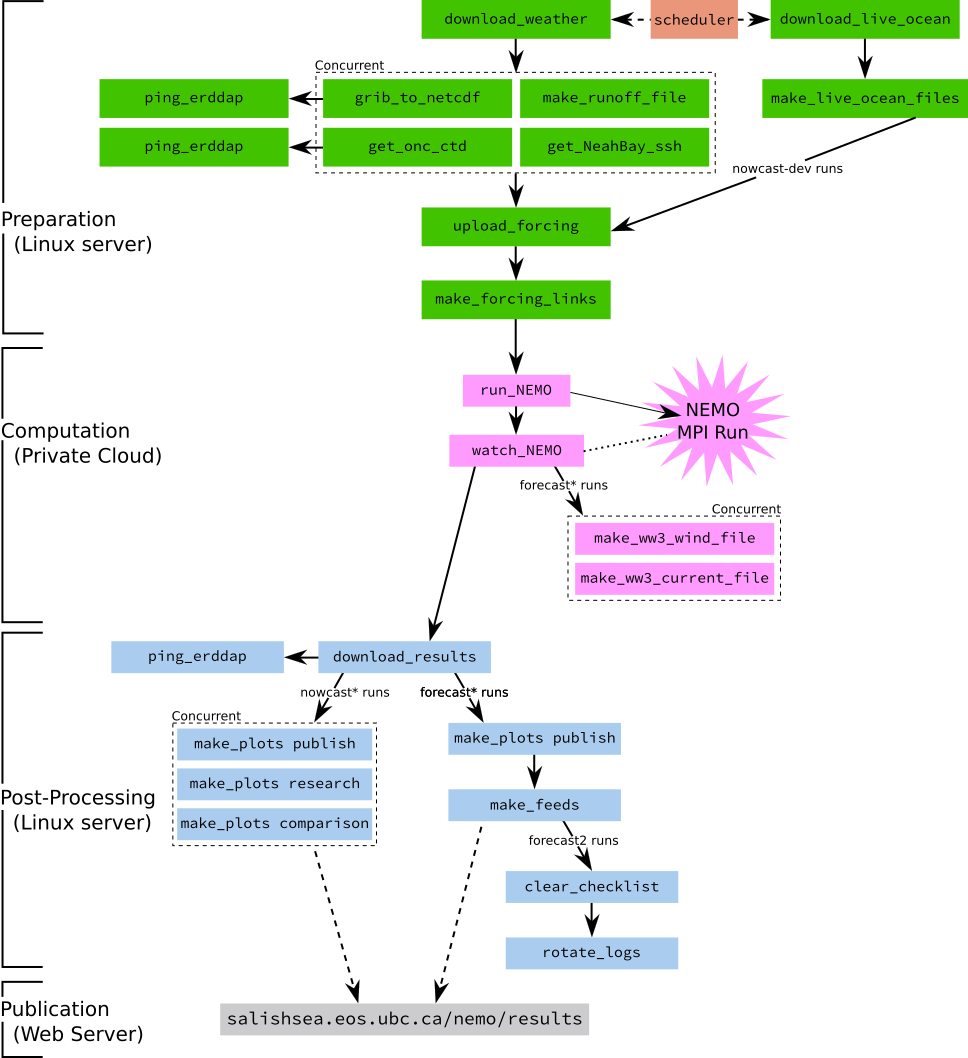
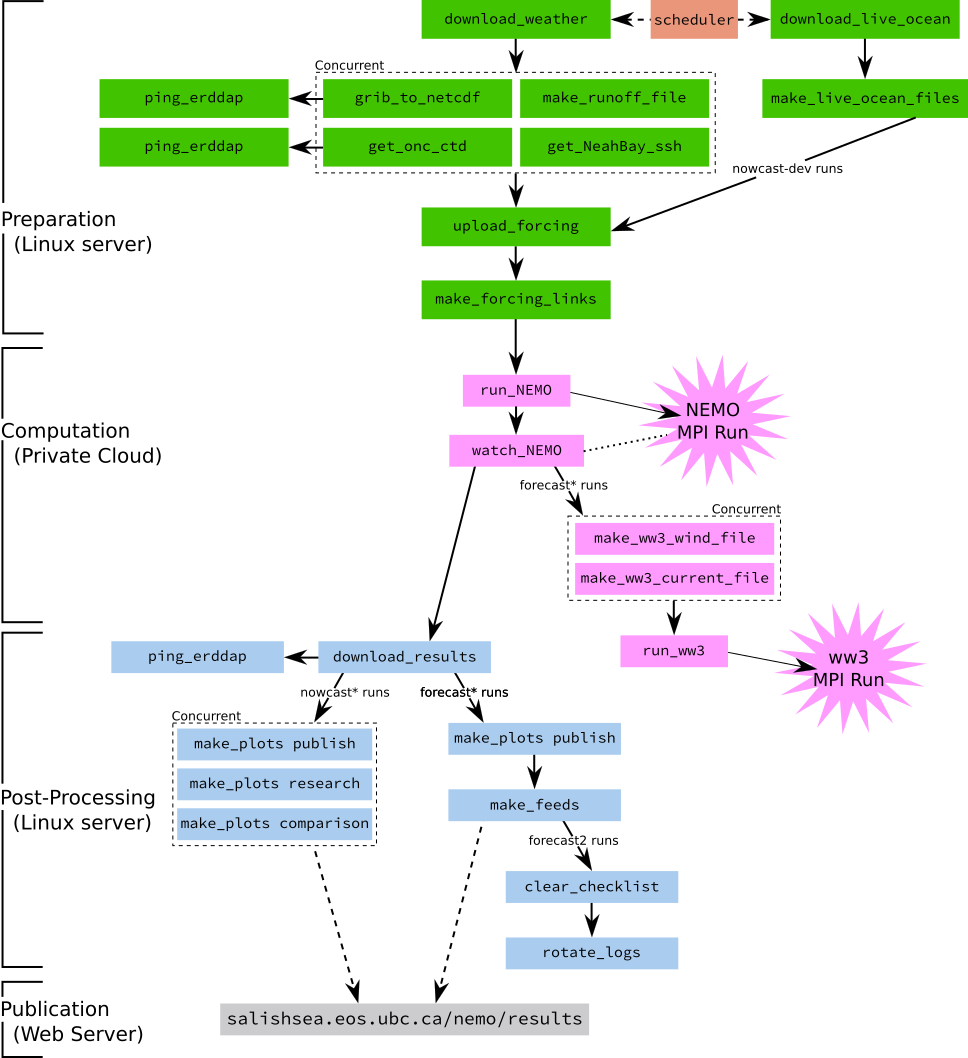
Integrate run_ww3 worker into automation.

Changed region(s): [[0.8058, 0.5614, 0.9607, 0.6862], [0.6198, 0.5614, 0.7748, 0.655]]

diff --git a/tests/test_next_workers.py b/tests/test_next_workers.py
@@ -621,7 +621,7 @@ class TestAfterMakeWW3WindFile:
         'failure forecast2',
         'failure forecast',
         'success forecast2',
-        'success forecast2',
+        'success forecast',
     ])
     def test_no_next_worker_msg_types(self, msg_type, config, checklist):
         workers = next_workers.after_make_ww3_wind_file(
@@ -637,13 +637,26 @@ class TestAfterMakeWW3currentFile:
         'crash',
         'failure forecast2',
         'failure forecast',
-        'success forecast2',
-        'success forecast2',
     ])
     def test_no_next_worker_msg_types(self, msg_type, config, checklist):
         workers = next_workers.after_make_ww3_current_file(
             Message('make_ww3_current_file', msg_type), config, checklist)
         assert workers == []
+
+    @pytest.mark.parametrize('run_type', [
+        'forecast',
+        'forecast2',
+    ])
+    def test_success_launch_run_ww3(self, run_type, config, checklist):
+        workers = next_workers.after_make_ww3_current_file(
+            Message(
+                'make_ww3_current_file', f'success {run_type}', {
+                    run_type: 'current/SoG_current_20170415.nc'
+                }),
+            config, checklist)
+        expected = NextWorker(
+            'nowcast.workers.run_ww3', args=['cloud', run_type], host='cloud')
+        assert workers[0] == expected
 
 
 class TestAfterDownloadResults:

diff --git a/nowcast/next_workers.py b/nowcast/next_workers.py
@@ -552,7 +552,23 @@ def after_make_ww3_current_file(msg, config, checklist):
     :returns: Worker(s) to launch next
     :rtype: list
     """
-    return []
+    next_workers = {
+        'crash': [],
+        'failure forecast2': [],
+        'failure forecast': [],
+        'success forecast2': [],
+        'success forecast': [],
+    }
+    if msg.type.startswith('success'):
+        host_name = config['wave forecasts']['host']
+        run_type = msg.type.split()[1]
+        next_workers[msg.type].append(
+            NextWorker(
+                'nowcast.workers.run_ww3',
+                args=[host_name, run_type], host=host_name
+            )
+        )
+    return next_workers[msg.type]
 
 
 def after_download_results(msg, config, checklist):
